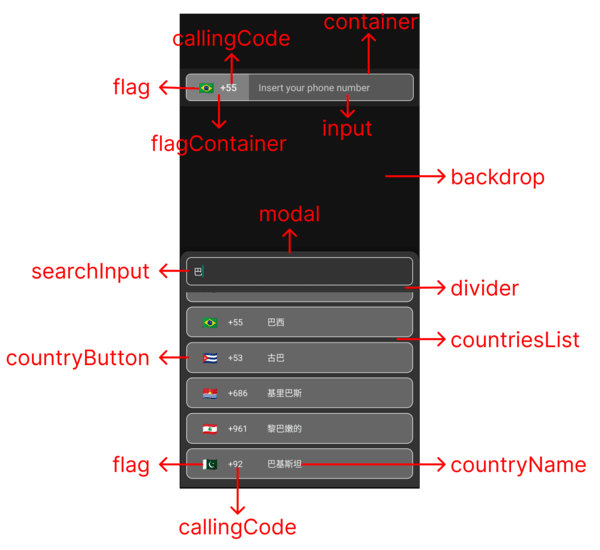
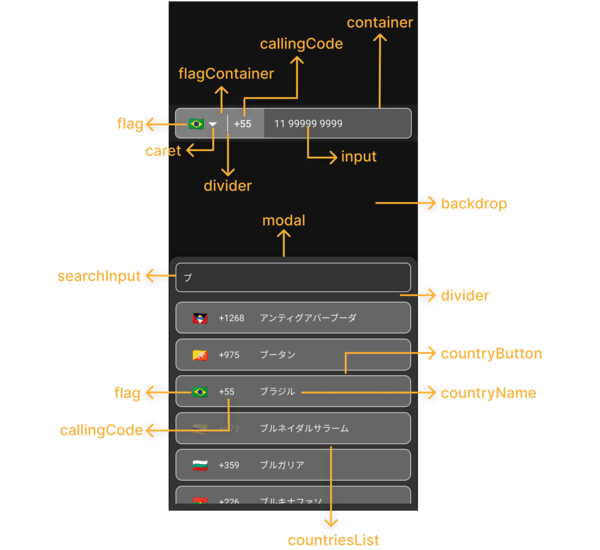
docs: updated lib documentation

Changed region(s): [[0.0, 0.0, 0.99, 1.0]]

diff --git a/README.md b/README.md
@@ -45,7 +45,7 @@
 
 - [Old Versions](#old-versions)
 - [Installation](#installation)
-- [Additional Config](#additional-config)
+- [Additional Config to Web](#additional-config-to-web)
 - [Features](#features)
 - [Basic Usage](#basic-usage)
   - [With Class Component](#class-component)
@@ -58,6 +58,7 @@
 - [Customizing Lib](#customizing-lib)
   - [Dark Mode](#dark-mode)
   - [Custom Lib Styles](#custom-lib-styles)
+  - [Custom Caret](#custom-caret)
   - [Custom Placeholders/Messages](#custom-placeholdersmessages)
   - [Custom Modal Height](#custom-modal-height)
   - [Country Modal Disabled Mode](#country-modal-disabled-mode)
@@ -79,8 +80,9 @@
 
 ## Old Versions
 
-- [Version 0.4.x](https://github.com/AstrOOnauta/react-native-international-phone-number/tree/v0.4.x)
+- [Version 0.6.x](https://github.com/AstrOOnauta/react-native-international-phone-number/tree/v0.6.x)
 - [Version 0.5.x](https://github.com/AstrOOnauta/react-native-international-phone-number/tree/v0.5.x)
+- [Version 0.4.x](https://github.com/AstrOOnauta/react-native-international-phone-number/tree/v0.4.x)
 
 <br>
 
@@ -96,9 +98,7 @@ OR
 $ yarn add react-native-international-phone-number
 ```
 
-## Additional config
-
-### iOS and Web
+## Additional config to `Web`
 
 - Using React Native CLI:
 
@@ -141,23 +141,6 @@ npx react-native-asset
 
 > Observation: _you need to recompile your project after adding new fonts._
 
-## only iOS
-
-- Edit `Info.plist` inside `ios` folder with following code:
-
-```bash
-...
-<key>UIAppFonts</key>
-<array>
-	<string>TwemojiMozilla.woff2</string>
-  ...
-</array>
-```
-
-and add the font `Twemoji Mozilla` to the Copy Bundle Resources, in Build Phases inside your project XCode.
-
-> Observation: _you need to recompile your project after adding new fonts._
-
 <br>
 
 ## Features
@@ -166,7 +149,7 @@ and add the font `Twemoji Mozilla` to the Copy Bundle Resources, in Build Phases
 - 🎨 Lib with UI customizable;
 - 🌎 Phone Input Mask according with the selected country;
 - 👨💻 Functional and class component support;
-- 🈶 18 languages supported.
+- 🈶 20 languages supported.
 
 <br>
 
@@ -482,6 +465,13 @@ export default function App() {
         justifyContent: 'center',
       },
       flag: {},
+      caret: {
+        color: '#F3F3F3',
+        fontSize: 16,
+      },
+      divider: {
+        backgroundColor: '#F3F3F3',
+      }
       callingCode: {
         fontSize: 16,
         fontWeight: 'bold',
@@ -530,6 +520,17 @@ export default function App() {
         color: '#F3F3F3',
       },
     }}
+  />
+  ...
+```
+
+- ### Custom Caret:
+
+```jsx
+  ...
+  <PhoneInput
+    ...
+    customCaret={<Icon name="chevron-down" size={30} color="#000000" />}  // react-native-vector-icons
   />
   ...
 ```
@@ -686,6 +687,7 @@ export default function App() {
 - `modalStyles?:` [IModalStyles](lib/interfaces/modalStyles.ts);
 - `modalSearchInputPlaceholder?:` string;
 - `modalNotFoundCountryMessage?:` string;
+- `customCaret?:` [ReactNode](https://reactnative.dev/docs/react-node);
 - `ref?:` [Ref](https://github.com/DefinitelyTyped/DefinitelyTyped/blob/663f439d11d78b65f1dfd38d120f3728ea2cc207/types/react/index.d.ts#L100)<[IPhoneInputRef](lib/interfaces/phoneInputRef.ts)>
 
 <br>
@@ -704,24 +706,26 @@ export default function App() {
 
 ```js
   "name": {
-    "en": "English",
-    "ru": "Russian",
-    "pl": "Polish",
-    "ua": "Ukrainian",
-    "cz": "Czech",
-    "by": "Belarusian",
-    "pt": "Portuguese",
-    "es": "Espanol",
-    "ro": "Romanian",
     "bg": "Bulgarian",
-    "de": "German",
-    "fr": "French",
-    "nl": "Dutch",
-    "it": "Italian",
+    "by": "Belarusian",
     "cn": "Chinese",
+    "cz": "Czech",
+    "de": "German",
     "ee": "Estonian",
+    "el": "Greek",
+    "en": "English",
+    "es": "Espanol",
+    "fr": "French",
+    "he": "Hebrew",
+    "it": "Italian",
     "jp": "Japanese",
-    "he": "Hebrew"
+    "nl": "Dutch",
+    "pl": "Polish",
+    "pt": "Portuguese",
+    "ro": "Romanian",
+    "ru": "Russian",
+    "ua": "Ukrainian",
+    "zh": "Chinese (Simplified)"
   },
 ```
 
